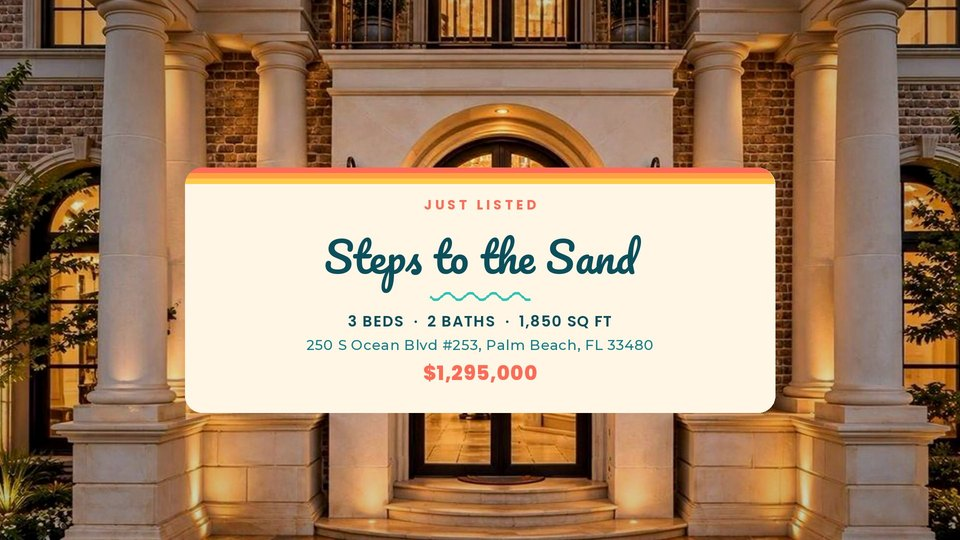
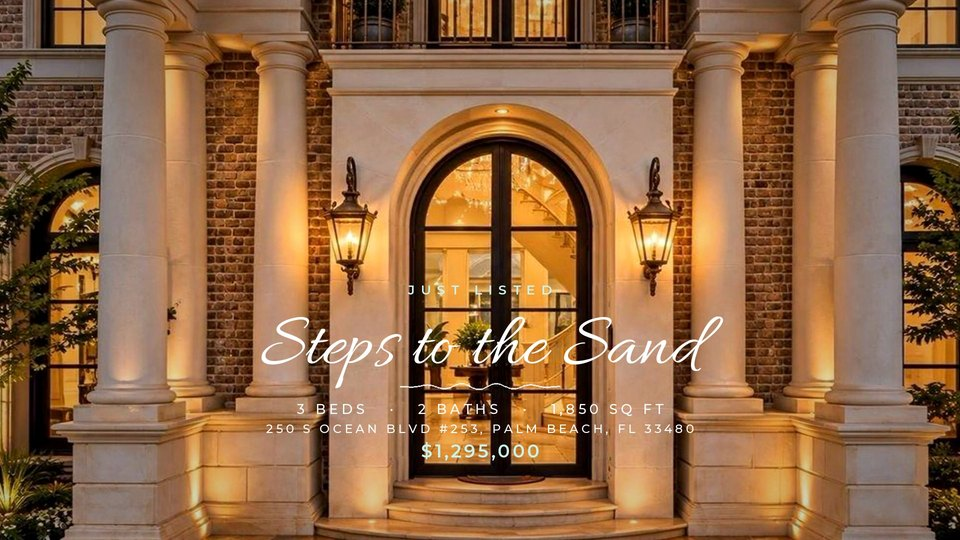
Sunshine Coast: airy redesign (Allura script, thin tracked caps, soft wave, no cards)
Claude-Session: https://claude.ai/code/session_01QsEP4aNcFEjXJ2XAECaAHE

Changed region(s): [[0.1875, 0.2963, 0.8125, 0.8593]]

diff --git a/render/engine/render.py b/render/engine/render.py
@@ -1108,105 +1108,84 @@ class T12(Template):
         img, x = self._stack(rows, gap=20)
         return [Element(img, x, (H - img.height) // 2, t0, None, "rise", 26)]
 
-# ---- 13 · Sunshine Coast (Florida: retro sunset stripes, sand cards, Pacifico script, a little wave)
+# ---- 13 · Sunshine Coast (Florida, airy: flowing script, thin tracked caps, a soft hand-drawn wave; no boxes)
 class T13(Template):
     name = "Sunshine Coast"
-    SAND = hexrgb("#FFF6E6"); DEEP = hexrgb("#0B4F5C"); TEAL = hexrgb("#11808A")
-    CORAL = hexrgb("#FF6B57"); MANGO = hexrgb("#FF9F43"); SUN = hexrgb("#FFC94A"); SEA = hexrgb("#2EC4B6")
-    SCRIPT = "pacifico"; SANS = "poppins-700"; BODY = "montserrat-500"
+    WHITE = hexrgb("#FFFFFF"); SOFT = hexrgb("#FFFFFF", 235); SEA = hexrgb("#C8F4EE"); WAVE = hexrgb("#FFFFFF", 215)
+    SCRIPT = "allura"; CAPS = "montserrat-500"; LIGHT = "montserrat-400"
 
-    def _wave(self, sp, cx, y, w, amp=7, period=46, width=5, fill=None):
-        pts = [(cx - w / 2 + t + sp.pad, y + sp.pad + amp * math.sin(t / period * 2 * math.pi)) for t in range(0, int(w) + 1, 2)]
-        sp.d.line(pts, fill=fill or self.SEA, width=width, joint="curve")
+    def _wave(self, sp, cx, y, w, amp=6, period=70, width=3, fill=None):
+        # one long, gentle swell that tapers at both ends
+        pts = []
+        for t in range(0, int(w) + 1, 2):
+            env = math.sin(math.pi * t / w)
+            pts.append((cx - w / 2 + t + sp.pad, y + sp.pad + amp * env * math.sin(t / period * 2 * math.pi)))
+        sp.d.line(pts, fill=fill or self.WAVE, width=width, joint="curve")
 
-    def _stripes(self, sp, w, r):
-        # retro Florida sunset bands across the top of a card, clipped to its rounded corners
-        band = Image.new("RGBA", (int(w), 3 * 11), (0, 0, 0, 0)); bd = ImageDraw.Draw(band)
-        for k, c in enumerate((self.CORAL, self.MANGO, self.SUN)): bd.rectangle([0, k * 11, w, k * 11 + 10], fill=c)
-        mask = Image.new("L", (int(w), int(r * 2 + 40)), 0)
-        ImageDraw.Draw(mask).rounded_rectangle([0, 0, w - 1, r * 2 + 39], r, fill=255)
-        band.putalpha(Image.composite(band.getchannel("A"), Image.new("L", band.size, 0), mask.crop((0, 0, int(w), band.height))))
-        sp.paste(band, 0, 0)
-
-    def _card(self, rows, w, gap=14, top=56, bottom=44):
-        """rows: ('text', txt, font, fill, track) | ('wave', w) | ('gap', px) | ('img', Image). Sand card, no shadow."""
-        h = top + bottom
+    def _stack(self, rows, w, gap=12, align="c"):
+        """rows: ('text', txt, font, fill, track) | ('wave', w) | ('gap', px) | ('img', Image). Transparent, no shadow."""
+        h = 0
         for r in rows:
-            if r[0] == "text": h += r[2].getmetrics()[0] + r[2].getmetrics()[1] // 2 + gap
-            elif r[0] == "wave": h += 26 + gap
+            if r[0] == "text": h += r[2].getmetrics()[0] + r[2].getmetrics()[1] // 3 + gap
+            elif r[0] == "wave": h += 22 + gap
             elif r[0] == "gap": h += r[1]
             elif r[0] == "img": h += r[1].height + gap
-        rad = 34
-        sp = Sprite(w, h)
-        sp.rect(0, 0, w, h, self.SAND, r=rad)
-        self._stripes(sp, w, rad)
-        y = top
+        sp = Sprite(w, h + 20)
+        y = 0; x = w / 2 if align == "c" else 0
         for r in rows:
             if r[0] == "text":
                 _, txt, f, fill, tr = r
-                sp.text(w / 2, y, txt, f, fill, tr, anchor="c")
-                y += f.getmetrics()[0] + f.getmetrics()[1] // 2 + gap
+                sp.text(x, y, txt, f, fill, tr, anchor=align)
+                y += f.getmetrics()[0] + f.getmetrics()[1] // 3 + gap
             elif r[0] == "wave":
-                self._wave(sp, w / 2, y + 12, r[1]); y += 26 + gap
+                self._wave(sp, x if align == "c" else r[1] / 2, y + 10, r[1]); y += 22 + gap
             elif r[0] == "gap": y += r[1]
             elif r[0] == "img":
-                sp.paste(r[1], w / 2 - r[1].width / 2, y); y += r[1].height + gap
-        return sp.finish(0)
+                sp.paste(r[1], (x - r[1].width / 2) if align == "c" else 0, y); y += r[1].height + gap
+        return sp.finish(0), sp.pad
 
     def title(self, t0, t1):
-        w = MW(1180) if not VERTICAL else W - 140
-        inner = w - 120
-        rows = [("text", self.kicker().upper(), font(self.SANS, 26), self.CORAL, 7)]
-        for ln in wrap(self.headline(), font(self.SCRIPT, 84), inner):
-            rows.append(("text", ln, fit_font(self.SCRIPT, 84, ln, inner), self.DEEP, 0))
-        rows.append(("wave", 200))
+        w = MW(1600)
+        rows = [("text", self.kicker().upper(), font("montserrat-600", 26), self.SEA, 12), ("gap", 2)]
+        for ln in wrap(self.headline(), font(self.SCRIPT, 150), w - 80):
+            rows.append(("text", ln, fit_font(self.SCRIPT, 150, ln, w - 80), self.WHITE, 0))
+        rows += [("gap", 4), ("wave", 320), ("gap", 4)]
         st = stats_parts(self.job.get("stats"))
-        if st: rows.append(("text", "  ·  ".join(st), font("poppins-600", 30), self.DEEP, 2))
-        if self.addr_line(): rows.append(("text", self.addr_line(), fit_font(self.BODY, 28, self.addr_line(), inner), self.TEAL, 1))
-        if self.price(): rows.append(("text", self.price(), font("poppins-800", 40), self.CORAL, 1))
-        img = self._card(rows, w)
-        x = (W - img.width) // 2
-        y = (H - img.height) // 2 + (0 if VERTICAL else 40)
-        return [Element(img, x, y, t0, t1, "rise", 30)]
+        if st: rows.append(("text", "   ·   ".join(st).upper(), font(self.CAPS, 27), self.WHITE, 7))
+        if self.addr_line(): rows.append(("text", self.addr_line().upper(), fit_font(self.CAPS, 24, self.addr_line().upper(), w - 80, 6), self.WHITE, 6))
+        if self.price(): rows.append(("text", self.price(), font("montserrat-600", 36), self.SEA, 5))
+        img, _ = self._stack(rows, w)
+        y = H - BOT(90) - img.height if not VERTICAL else (H - img.height) // 2
+        return [Element(img, (W - img.width) // 2, y, t0, t1, "rise", 18)]
 
     def feature(self, i, n, shot, t0, t1):
         main = shot.get("label") or ""; sub = (shot.get("sub") or "").upper()
         if not main and not sub: return []
-        fm = fit_font(self.SANS, 44, main, MW(1100)); fs = font("poppins-600", 22)
-        wm = text_w(main, fm); ws = text_w(sub, fs, 4)
-        dot = 30; padx = 30
-        h = fm.getmetrics()[0] + (fs.getmetrics()[0] + 14 if sub else 0) + 40
-        w = padx + dot + 20 + max(wm, ws) + padx + 6
-        sp = Sprite(w, h)
-        sp.rect(0, 0, w, h, self.SAND, r=min(30, h // 2))
-        cy = h / 2
-        sp.ellipse(padx, cy - dot / 2, padx + dot, cy + dot / 2, fill=self.CORAL)
-        sp.rect(padx + 2, cy + 3, padx + dot - 2, cy + 6, self.SAND)          # little sunset lines through the sun
-        sp.rect(padx + 4, cy + 9, padx + dot - 4, cy + 11, self.SAND)
-        tx = padx + dot + 20
-        sp.text(tx, 20, main, fm, self.DEEP)
-        if sub: sp.text(tx + 1, 20 + fm.getmetrics()[0] + 12, sub, fs, self.CORAL, 4)
-        img = sp.finish(0)
-        return [Element(img, 100 - sp.pad, H - BOT(100) - h - sp.pad, t0, t1, "left" if i % 2 else "rise", 28)]
+        fm = fit_font(self.SCRIPT, 96, main, MW(1200)); fs = font(self.CAPS, 22)
+        w = int(max(text_w(main, fm), text_w(sub, fs, 7), 220)) + 30
+        rows = [("text", main, fm, self.WHITE, 0), ("wave", 200)]
+        if sub: rows.append(("text", sub, fs, self.WHITE, 7))
+        img, pad = self._stack(rows, w, gap=6, align="l")
+        return [Element(img, 110 - pad, H - BOT(90) - img.height + pad, t0, t1, "rise", 16)]
 
     def outro(self, t0):
-        a = self.agent(); w = MW(1000) if not VERTICAL else W - 140; inner = w - 120; rows = []
+        a = self.agent(); w = MW(1500); rows = []
         if self.branded() and self.media("headshot"):
-            rows += [("img", circle_photo(self.media("headshot"), 190, self.SEA, 6)), ("gap", 2)]
-        rows.append(("text", self.outro_kicker().upper(), font(self.SANS, 24), self.CORAL, 7))
+            rows += [("img", circle_photo(self.media("headshot"), 200, self.WHITE, 3)), ("gap", 4)]
+        rows.append(("text", self.outro_kicker().upper(), font(self.CAPS, 22), self.SEA, 12))
         if self.branded():
-            if a.get("name"): rows.append(("text", a["name"], fit_font(self.SCRIPT, 80, a["name"], inner), self.DEEP, 0))
-            rows.append(("wave", 180))
-            if a.get("brokerage"): rows.append(("text", a["brokerage"].upper(), fit_font(self.BODY, 24, a["brokerage"].upper(), inner, 5), self.TEAL, 5))
-            if a.get("phone"): rows.append(("text", a["phone"], font("poppins-700", 46), self.DEEP, 2))
-            if self.media("logo"): rows += [("gap", 6), ("img", logo_image(self.media("logo"), 300, 110))]
+            if a.get("name"): rows.append(("text", a["name"], fit_font(self.SCRIPT, 140, a["name"], w - 80), self.WHITE, 0))
+            rows += [("wave", 300), ("gap", 2)]
+            if a.get("brokerage"): rows.append(("text", a["brokerage"].upper(), fit_font(self.LIGHT, 22, a["brokerage"].upper(), w - 80, 7), self.WHITE, 7))
+            if a.get("phone"): rows.append(("text", a["phone"], font(self.LIGHT, 40), self.WHITE, 4))
+            if self.media("logo"): rows += [("gap", 8), ("img", logo_image(self.media("logo"), 300, 110))]
         else:
             hl = self.headline()
-            rows.append(("text", hl, fit_font(self.SCRIPT, 76, hl, inner), self.DEEP, 0))
-            rows.append(("wave", 180))
-            if self.addr_line(): rows.append(("text", self.addr_line(), fit_font(self.BODY, 26, self.addr_line(), inner), self.TEAL, 1))
-        img = self._card(rows, w)
-        return [Element(img, (W - img.width) // 2, (H - img.height) // 2, t0, None, "rise", 30)]
+            rows.append(("text", hl, fit_font(self.SCRIPT, 130, hl, w - 80), self.WHITE, 0))
+            rows += [("wave", 300), ("gap", 2)]
+            if self.addr_line(): rows.append(("text", self.addr_line().upper(), fit_font(self.LIGHT, 22, self.addr_line().upper(), w - 80, 6), self.SOFT, 6))
+        img, _ = self._stack(rows, w, gap=14)
+        return [Element(img, (W - img.width) // 2, (H - img.height) // 2, t0, None, "rise", 18)]
 
 TEMPLATES = {1: T1, 2: T2, 3: T3, 4: T4, 5: T5, 6: T6, 7: T7, 8: T8, 9: T9, 10: T10, 11: T11, 12: T12, 13: T13}
 
